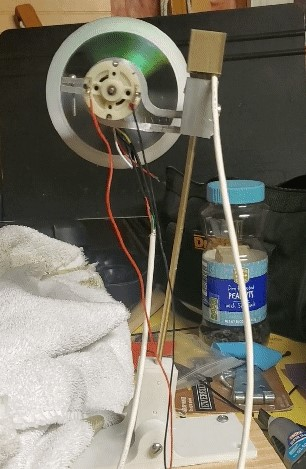
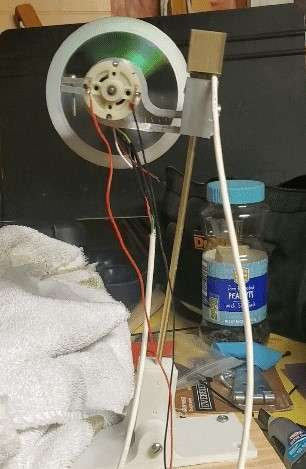
optimized

diff --git a/index.html b/index.html
@@ -231,7 +231,7 @@ My academic coursework includes Object-Oriented Programming, Data Structures and
           <div class="item web col-6 col-sm-6 col-md-6 col-lg-4 col-xl-4 mb-4">
             <a href="flame_detection.html">
               <span title="Flame Detection Sensor">
-              <img class="img-fluid" src="images/flamed.PNG">
+              <img class="img-fluid" src="images/flamed.jpg">
             </span>
             </a>
           </div>
@@ -239,7 +239,7 @@ My academic coursework includes Object-Oriented Programming, Data Structures and
           <div class="item brand col-6 col-sm-6 col-md-6 col-lg-4 col-xl-4 mb-4">
             <a href="inverted_pendulum.html" >
               <span title="Inverted Pendulum">
-              <img class="img-fluid" src="images/pendulum.PNG">
+              <img class="img-fluid" src="images/pendulum.jpg">
             </span>
             </a>
           </div>
@@ -248,7 +248,7 @@ My academic coursework includes Object-Oriented Programming, Data Structures and
 
             <a href="cognitive_research.html">
               <span title="Avare">
-              <img class="img-fluid" src="images/avare.PNG">
+              <img class="img-fluid" src="images/avare.jpg">
             </span>
             </a>
 
@@ -263,7 +263,7 @@ My academic coursework includes Object-Oriented Programming, Data Structures and
             <div class="item brand col-6 col-sm-6 col-md-6 col-lg-4 col-xl-4 mb-4">
             <a href="me2110_robot.html">
               <span title="ME 2110 Robot">
-              <img class="img-fluid" src="images/me2110_robot.PNG">
+              <img class="img-fluid" src="images/me2110_robot.jpg">
                </span>   
             </a>
           </div>
@@ -279,7 +279,7 @@ My academic coursework includes Object-Oriented Programming, Data Structures and
           <div class="item web col-6 col-sm-6 col-md-6 col-lg-4 col-xl-4 mb-4">
             <a href="capstone.html">
               <span title="Automated Vise Clamp">
-              <img class="img-fluid" src="images/capstone.PNG">
+              <img class="img-fluid" src="images/capstone.jpg">
             </span>
             </a>
           </div>
